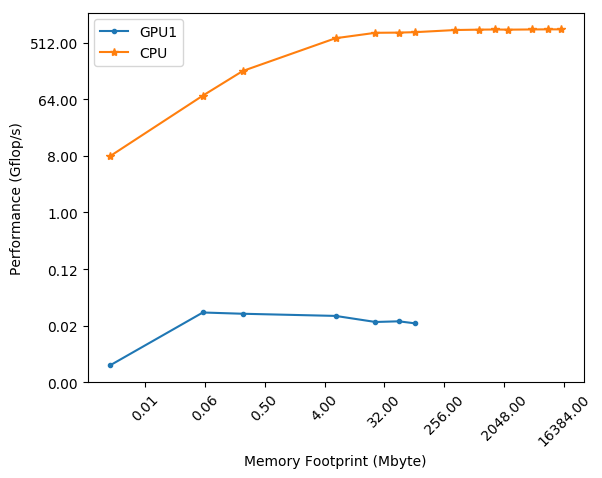
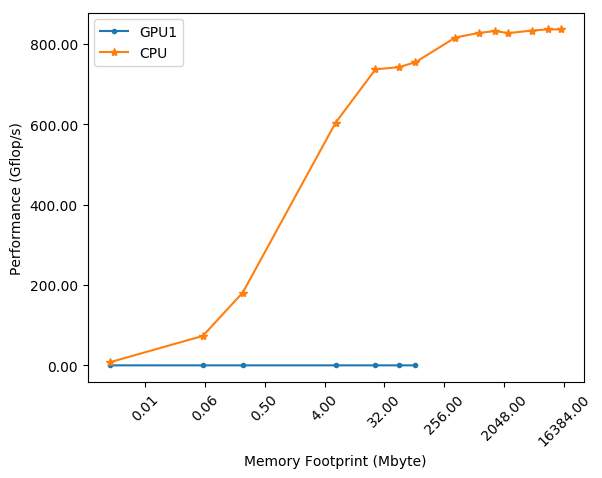
Removed log2 yaxis

diff --git a/matmult/data/viz.py b/matmult/data/viz.py
@@ -99,7 +99,7 @@ plt.xlabel('Memory Footprint (Mbyte)')
 plt.ylabel('Performance (Gflop/s)')
 #plt.gca().set_ylim(bottom=0)
 plt.xscale('log',basex=2)
-plt.yscale('log',basey=2)
+#plt.yscale('log',basey=2)
 ax = plt.gca().xaxis
 ax.set_major_formatter(FormatStrFormatter('%.2f'))
 ax = plt.gca().yaxis
@@ -117,7 +117,7 @@ plt.xlabel('Memory Footprint (Mbyte)')
 plt.ylabel('Performance (Gflop/s)')
 #plt.gca().set_ylim(bottom=0)
 plt.xscale('log',basex=2)
-plt.yscale('log',basey=2)
+#plt.yscale('log',basey=2)
 ax = plt.gca().xaxis
 ax.set_major_formatter(FormatStrFormatter('%.2f'))
 ax = plt.gca().yaxis
@@ -134,7 +134,7 @@ plt.xlabel('Memory Footprint (Mbyte)')
 plt.ylabel('Performance (Gflop/s)')
 #plt.gca().set_ylim(bottom=0)
 plt.xscale('log',basex=2)
-plt.yscale('log',basey=2)
+#plt.yscale('log',basey=2)
 ax = plt.gca().xaxis
 ax.set_major_formatter(FormatStrFormatter('%.2f'))
 ax = plt.gca().yaxis
@@ -151,7 +151,7 @@ plt.xlabel('Memory Footprint (Mbyte)')
 plt.ylabel('Performance (Gflop/s)')
 #plt.gca().set_ylim(bottom=0)
 plt.xscale('log',basex=2)
-plt.yscale('log',basey=2)
+#plt.yscale('log',basey=2)
 ax = plt.gca().xaxis
 ax.set_major_formatter(FormatStrFormatter('%.2f'))
 ax = plt.gca().yaxis
@@ -168,7 +168,7 @@ plt.xlabel('Memory Footprint (Mbyte)')
 plt.ylabel('Performance (Gflop/s)')
 #plt.gca().set_ylim(bottom=0)
 plt.xscale('log',basex=2)
-plt.yscale('log',basey=2)
+#plt.yscale('log',basey=2)
 ax = plt.gca().xaxis
 ax.set_major_formatter(FormatStrFormatter('%.2f'))
 ax = plt.gca().yaxis
@@ -185,7 +185,7 @@ plt.xlabel('Memory Footprint (Mbyte)')
 plt.ylabel('Performance (Gflop/s)')
 #plt.gca().set_ylim(bottom=0)
 plt.xscale('log',basex=2)
-plt.yscale('log',basey=2)
+#plt.yscale('log',basey=2)
 ax = plt.gca().xaxis
 ax.set_major_formatter(FormatStrFormatter('%.2f'))
 ax = plt.gca().yaxis
